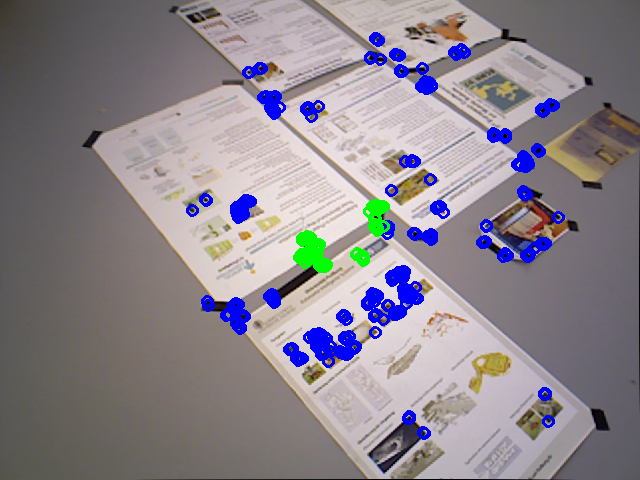
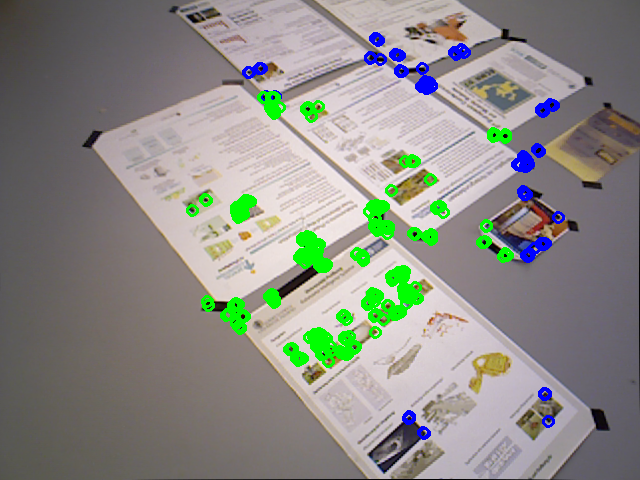
minor update on solver_tb

diff --git a/src/experiments/solver_tb.cpp b/src/experiments/solver_tb.cpp
@@ -12,6 +12,7 @@
 #include <unistd.h>
 
 #include "rgbd_image.h"
+#include "FrontendSolver.h"
 
 // 1341839846.7712 -2.3142 -2.2665 1.9327 0.9424 0.0850 -0.0028 -0.3235
 
@@ -99,8 +100,7 @@ template<typename T>
 void keypoint_plotter(Mat& img, vector<T>& points,  
                                 char color = 'g', 
                                 int radius = 5,
-                                int thickness = 2,
-                                bool cv_keypoints = false
+                                int thickness = 2
                                 )
 {
     
@@ -117,18 +117,11 @@ void keypoint_plotter(Mat& img, vector<T>& points,
     }
     
     string cwd = get_current_dir_name();
-    if (cv_keypoints) {
-        for (int i = 0; i < points.size(); i++)
-        {
-            cv::circle(img, points[i].pt, radius, plot_color, thickness);
-        }
+    
+    for (int i = 0; i < points.size(); i++) {
+    cv::circle(img, points[i], radius, plot_color, thickness);
     }
-    else 
-    {
-        for (int i = 0; i < points.size(); i++) {
-        cv::circle(img, points[i], radius, plot_color, thickness);
-        }
-    }
+    
     // imwrite(cwd + relative_path, img);
 }
 
@@ -181,21 +174,31 @@ int main()
     img2.depth = img2_depth;
 
 
-    img1.initialize()
+    img1.initialize();
+    img2.initialize();
 
+    
     vector<KeyPoint> kps;
     Mat des;
     extract_orb_features(img1_cvmat, kps, des);
 
     vector<Point2i> kept_kps;
-    keep_points(0.4, cam_width, cam_height, kps, kept_kps);
+    keep_points(0.2, cam_width, cam_height, kps, kept_kps);
 
     cout << "num of kept points = " << kept_kps.size() << endl;
     cout << "num of original points = " << kps.size() << endl;
     
     Mat im_display = img1_cvmat;
     
-    keypoint_plotter(im_display, kps, 'b', 5, 2, true);
+    std::vector<cv::Point2i> kps_vec;
+    for (int i = 0; i < kps.size(); i++) 
+    {
+        kps_vec.push_back(kps[i].pt);
+    }
+
+    std::cout << "DEBUG num of kps_vec " << kps_vec.size() << std::endl;
+
+    keypoint_plotter(im_display, kps_vec, 'b');
     keypoint_plotter(im_display, kept_kps, 'g');
 
     //debug
@@ -203,6 +206,9 @@ int main()
     //cout<< "DEBUG " << a << endl;
     
     imwrite(cwd+"/../src/experiments/features.png", im_display);
+    std::cout << "Write image completed" <<std::endl;
+
+
 
     return 0;
 }

diff --git a/src/FrontendSolver.cpp b/src/FrontendSolver.cpp
@@ -115,7 +115,9 @@ struct PHOTOMETRIC_COST_Eigen
     const RGBDImage& _x, _y;    // x,y数据
 }; */
 
-Eigen::Matrix4d FrontendSolver::solve(const dvo::RgbdImage& img1, const dvo::RgbdImage& img2, Eigen::Matrix4d initial_guess)
+
+//Initial guess is a 7 parameter representation of transformation (quaternion, translation) double [7]
+Eigen::Matrix4d FrontendSolver::solve(const dvo::RgbdImage& img1, const dvo::RgbdImage& img2, const double[7] & initial_guess)
 {   
     img1.buildPointCloud();
     img1.selectFeaturePoints(); // (place holder) build feature points function
@@ -149,9 +151,6 @@ Eigen::Matrix4d FrontendSolver::solve(const dvo::RgbdImage& img1, const dvo::Rgb
         feature_intensity(i) = all_points[i].getIntensityDepty()(0);
     }
     
-
-
-    
     /*
     template<typename T>
     Eigen::Matrix<T, 4, Eigen::Dynamic> feature_points;
@@ -183,7 +182,7 @@ Eigen::Matrix4d FrontendSolver::solve(const dvo::RgbdImage& img1, const dvo::Rgb
     problem.AddResidualBlock (     // 向问题中添加误差项
     // 使用自动求导，模板参数：误差类型，输出维度，输入维度，维数要与前面struct中一致
         new ceres::AutoDiffCostFunction<PhotometricError, 1, 7> ( 
-            new PhotometricError ( x_data[i], y_data[i] )
+            new PhotometricError ( feature_pc, feature_intensity, img2)
         ),
         nullptr,            // 核函数，这里不使用，为空
         abc                 // 待估计参数
@@ -204,7 +203,7 @@ Eigen::Matrix4d FrontendSolver::solve(const dvo::RgbdImage& img1, const dvo::Rgb
 
     // 输出结果
     cout<<summary.BriefReport() <<endl;
-    cout<<"estimated a,b,c = ";
-    for ( auto a:abc ) cout<<a<<" ";
+    cout<<"estimated transform";
+    for ( auto t:initial_guess ) cout<<a<<" ";
     cout<<endl; 
 }
